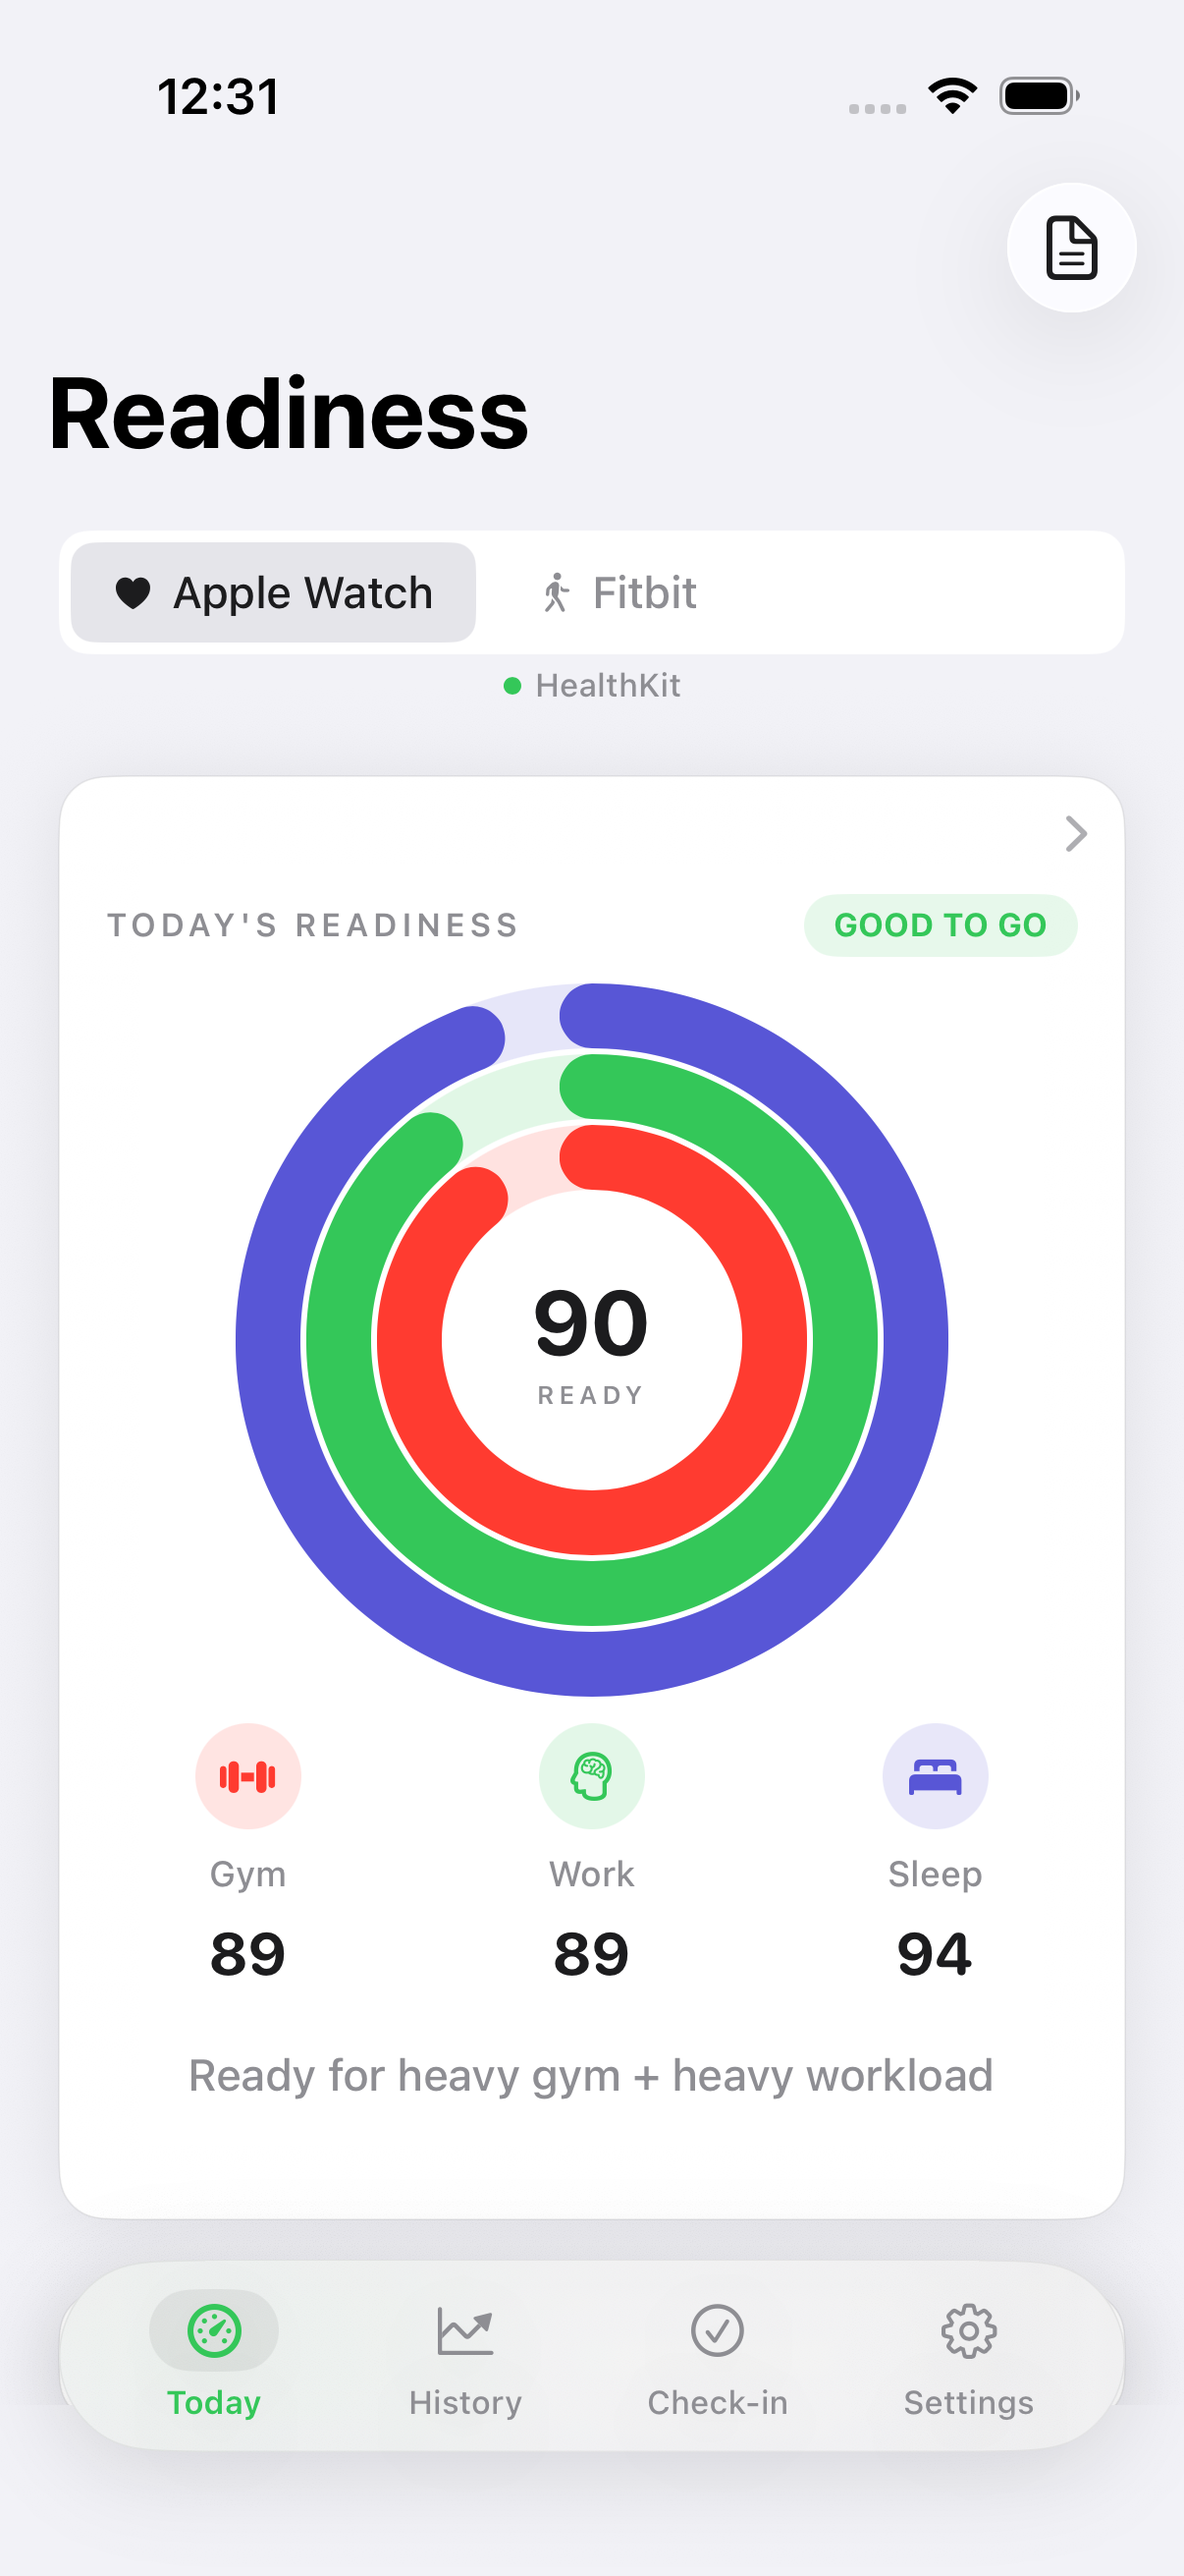
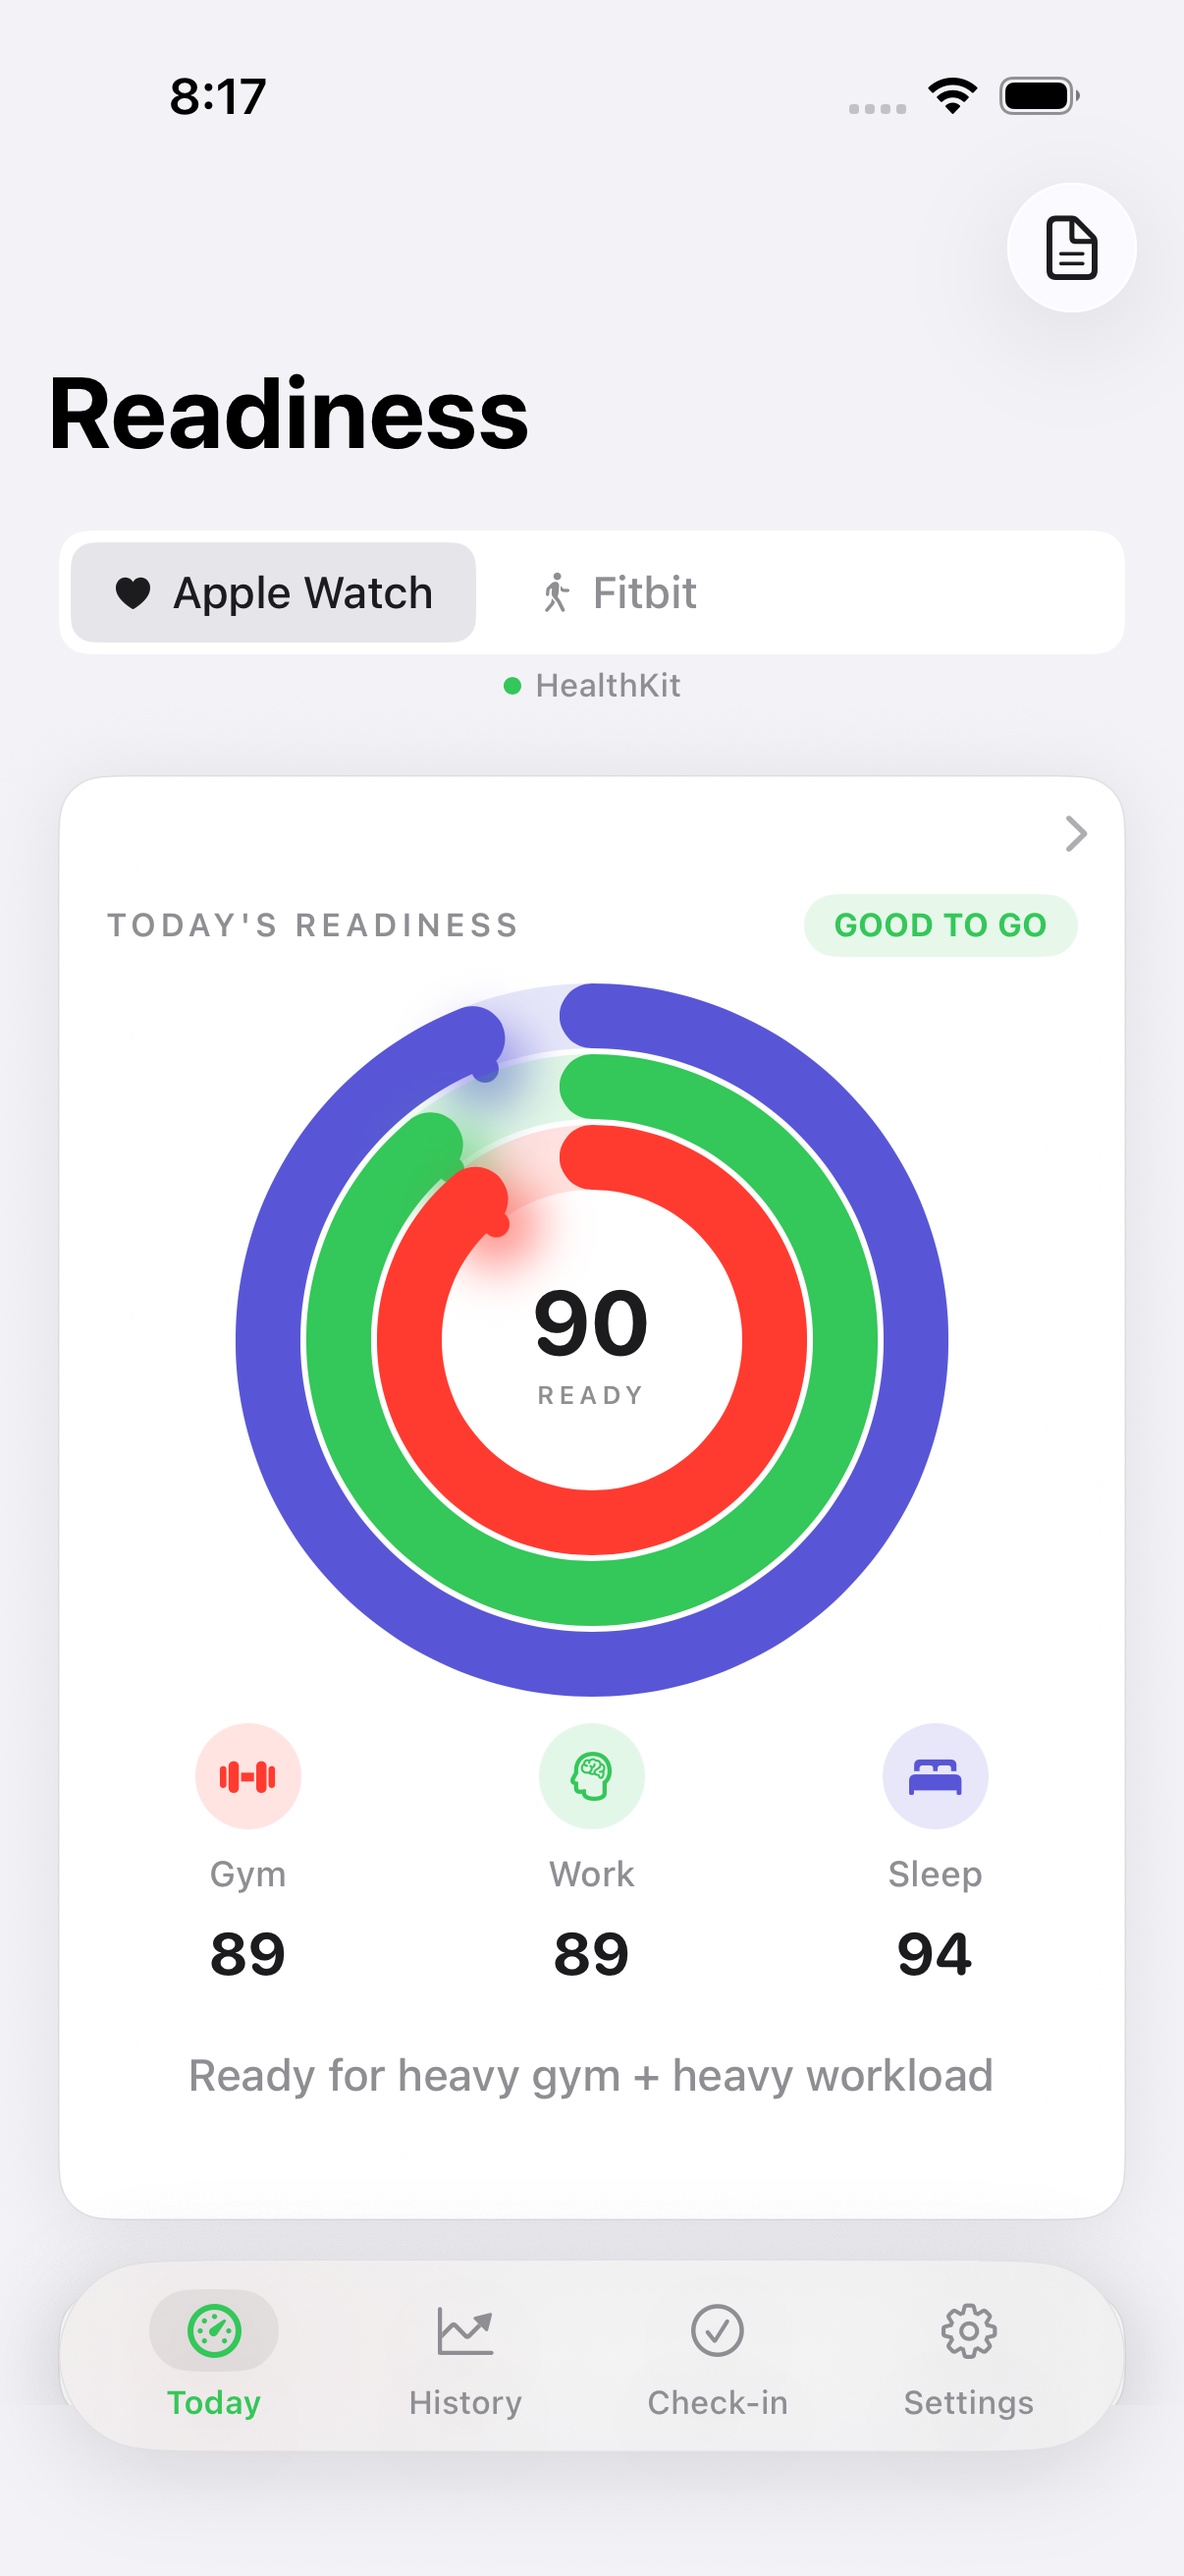
feat(today): Fitness ring tip glow (Honest #58) (#76)

Changed region(s): [[0.3682, 0.4016, 0.4909, 0.4943], [0.1227, 0.0309, 0.2454, 0.0618]]

diff --git a/ReadinessTracker/Design/TripleRingView.swift b/ReadinessTracker/Design/TripleRingView.swift
@@ -132,14 +132,39 @@ struct ActivityRing: View {
 
     @State private var animatedProgress: Double = 0
 
+    /// Leading-tip glow like Apple Fitness Activity rings (Honest #58).
+    private var tipPosition: CGPoint {
+        let p = min(max(animatedProgress, 0), 1)
+        let angle = (-90.0 + 360.0 * p) * .pi / 180.0
+        let radius = (size - lineWidth) / 2
+        return CGPoint(
+            x: size / 2 + radius * CGFloat(cos(angle)),
+            y: size / 2 + radius * CGFloat(sin(angle))
+        )
+    }
+
     var body: some View {
+        let p = min(max(animatedProgress, 0), 1)
         ZStack {
             Circle()
                 .stroke(color.opacity(0.15), lineWidth: lineWidth)
             Circle()
-                .trim(from: 0, to: min(animatedProgress, 1.0))
+                .trim(from: 0, to: p)
                 .stroke(color, style: StrokeStyle(lineWidth: lineWidth, lineCap: .round))
                 .rotationEffect(.degrees(-90))
+            if p > 0.02 {
+                Circle()
+                    .fill(color.opacity(0.55))
+                    .frame(width: lineWidth * 1.35, height: lineWidth * 1.35)
+                    .blur(radius: lineWidth * 0.35)
+                    .position(tipPosition)
+                    .allowsHitTesting(false)
+                Circle()
+                    .fill(color)
+                    .frame(width: lineWidth * 0.42, height: lineWidth * 0.42)
+                    .position(tipPosition)
+                    .allowsHitTesting(false)
+            }
         }
         .frame(width: size, height: size)
         .accessibilityElement(children: .ignore)
